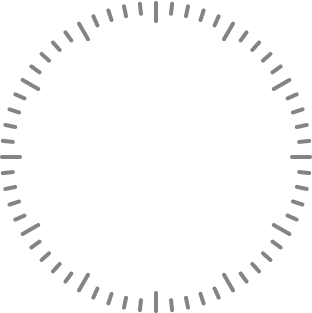
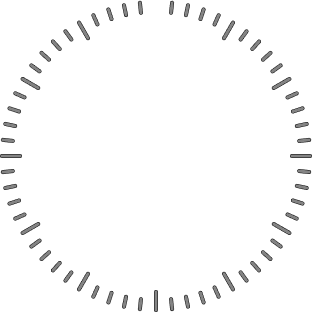
feat(concentric  data): add seconds

diff --git a/src/watchfaces/concentric-data/watchface/TimeWidget.js b/src/watchfaces/concentric-data/watchface/TimeWidget.js
@@ -1,10 +1,12 @@
 import { getMinuteAngle } from '../../../utils/getTimeAngles';
 import { CurrentTimeWidget } from './CurrentTimeWidget';
-import { MIN_ANGLE_TO_UPDATE_WHEEL, MINUTE_TEXTS_RADIUS } from './index.const';
+import { MINUTE_TEXTS_RADIUS } from './index.const';
 import { TimeWheelWidget } from './TimeWheelWidget';
 import {
+  MINUTE_AOD_IMAGE_PROPS,
   MINUTE_IMAGE_PROPS,
   MINUTE_TEXT_PROPS,
+  SECOND_AOD_IMAGE_PROPS,
   SECOND_IMAGE_PROPS,
 } from './TimeWidget.layout';
 
@@ -35,11 +37,10 @@ export class TimeWidget {
   constructor({ timeSensor }) {
     this._timeSensor = timeSensor;
 
-    this._prevMinuteAngle = Infinity;
-    this._prevCurrentHour = Infinity;
-    this._prevCurrentMinute = Infinity;
+    this._prevMinute = Infinity;
 
-    hmUI.createWidget(hmUI.widget.IMG, SECOND_IMAGE_PROPS);
+    hmUI.createWidget(hmUI.widget.TIME_POINTER, SECOND_IMAGE_PROPS);
+    hmUI.createWidget(hmUI.widget.IMG, SECOND_AOD_IMAGE_PROPS);
 
     this._timeWheelWidget = new TimeWheelWidget({
       imageProps: MINUTE_IMAGE_PROPS,
@@ -48,6 +49,8 @@ export class TimeWidget {
       getTextImageSrc: (index) =>
         MINUTE_TEXT_PROPS.src.replace('%s', TIME_TEXTS[index]),
     });
+
+    hmUI.createWidget(hmUI.widget.IMG, MINUTE_AOD_IMAGE_PROPS);
 
     this._currentTimeWidget = new CurrentTimeWidget();
 
@@ -58,39 +61,16 @@ export class TimeWidget {
    * @param {HmSensorInstance} timeSensor
    */
   _updateMinuteWheel(timeSensor) {
-    const { minute = 0, second = 0 } = timeSensor;
-    const angle = (90 + getMinuteAngle(minute, second)) % 360;
-    const shouldUpdate =
-      Math.abs(angle - this._prevMinuteAngle) >= MIN_ANGLE_TO_UPDATE_WHEEL &&
-      Math.abs(360 - angle + this._prevMinuteAngle) >=
-        MIN_ANGLE_TO_UPDATE_WHEEL;
+    const { minute = 0 } = timeSensor;
 
-    if (!shouldUpdate) {
+    if (this._prevMinute === minute) {
       return;
     }
 
-    this._prevMinuteAngle = angle;
+    this._prevMinute = minute;
 
+    const angle = (90 + getMinuteAngle(minute)) % 360;
     this._timeWheelWidget.update(angle);
-  }
-
-  /**
-   * @param {HmSensorInstance} timeSensor
-   */
-  _updateCurrentTime(timeSensor) {
-    const { hour = 0, minute = 0 } = timeSensor;
-
-    const shouldUpdate =
-      hour !== this._prevCurrentHour || minute !== this._prevCurrentMinute;
-
-    if (!shouldUpdate) {
-      return;
-    }
-
-    this._prevCurrentHour = hour;
-    this._prevCurrentMinute = minute;
-
-    this._currentTimeWidget.update(timeSensor);
   }
 
   _bindHandlers() {
@@ -98,11 +78,6 @@ export class TimeWidget {
 
     const update = () => {
       this._updateMinuteWheel(timeSensor);
-      this._updateCurrentTime(timeSensor);
-    };
-
-    const updateAod = () => {
-      this._updateCurrentTime(timeSensor);
     };
 
     hmUI.createWidget(hmUI.widget.WIDGET_DELEGATE, {
@@ -110,14 +85,10 @@ export class TimeWidget {
         if (hmSetting.getScreenType() == hmSetting.screen_type.WATCHFACE) {
           timeSensor.addEventListener?.(timeSensor.event.MINUTEEND, update);
           update();
-        } else if (hmSetting.getScreenType() == hmSetting.screen_type.AOD) {
-          timeSensor.addEventListener?.(timeSensor.event.MINUTEEND, updateAod);
-          updateAod();
         }
       },
       pause_call: () => {
         timeSensor.removeEventListener?.(timeSensor.event.MINUTEEND, update);
-        timeSensor.removeEventListener?.(timeSensor.event.MINUTEEND, updateAod);
       },
     });
   }

diff --git a/src/watchfaces/concentric-data/watchface/CurrentTimeWidget.js b/src/watchfaces/concentric-data/watchface/CurrentTimeWidget.js
@@ -1,45 +1,44 @@
-import { getTimeTexts } from '../../../adapters/getTimeTexts';
 import {
   CURRENT_HOUR_AOD_TEXT_PROPS,
   CURRENT_HOUR_TEXT_PROPS,
   CURRENT_MINUTE_AOD_TEXT_PROPS,
   CURRENT_MINUTE_TEXT_PROPS,
+  CURRENT_SECOND_TEXT_PROPS,
+  FRAME_AOD_IMAGE_PROPS,
   FRAME_IMAGE_PROPS,
 } from './CurrentTimeWidget.layout';
 
 export class CurrentTimeWidget {
   constructor() {
+    this._buildNormal();
+    this._buildAod();
+  }
+
+  _buildNormal() {
     hmUI.createWidget(hmUI.widget.IMG, FRAME_IMAGE_PROPS);
 
     this._currentHourText = hmUI.createWidget(
-      hmUI.widget.TEXT,
+      hmUI.widget.TEXT_FONT,
       CURRENT_HOUR_TEXT_PROPS,
     );
     this._currentMinuteText = hmUI.createWidget(
-      hmUI.widget.TEXT,
+      hmUI.widget.TEXT_FONT,
       CURRENT_MINUTE_TEXT_PROPS,
     );
 
+    hmUI.createWidget(hmUI.widget.TEXT_FONT, CURRENT_SECOND_TEXT_PROPS);
+  }
+
+  _buildAod() {
+    hmUI.createWidget(hmUI.widget.IMG, FRAME_AOD_IMAGE_PROPS);
+
     this._currentHourAodText = hmUI.createWidget(
-      hmUI.widget.TEXT,
+      hmUI.widget.TEXT_FONT,
       CURRENT_HOUR_AOD_TEXT_PROPS,
     );
     this._currentMinuteAodText = hmUI.createWidget(
-      hmUI.widget.TEXT,
+      hmUI.widget.TEXT_FONT,
       CURRENT_MINUTE_AOD_TEXT_PROPS,
     );
-  }
-
-  /**
-   * @param {HmSensorInstance} timeSensor
-   */
-  update(timeSensor) {
-    const { hourText, minuteText } = getTimeTexts(timeSensor);
-
-    this._currentHourText?.setProperty(hmUI.prop.TEXT, hourText);
-    this._currentMinuteText?.setProperty(hmUI.prop.TEXT, minuteText);
-
-    this._currentHourAodText?.setProperty(hmUI.prop.TEXT, hourText);
-    this._currentMinuteAodText?.setProperty(hmUI.prop.TEXT, minuteText);
   }
 }

diff --git a/src/watchfaces/concentric-data/watchface/CurrentTimeWidget.layout.js b/src/watchfaces/concentric-data/watchface/CurrentTimeWidget.layout.js
@@ -1,3 +1,4 @@
+import { getIs12HourFormat } from '../../../adapters/getIs12HourFormat';
 import {
   COLORS,
   CURRENT_HOUR,
@@ -13,6 +14,13 @@ export const FRAME_IMAGE_PROPS = {
   show_level: hmUI.show_level.ONLY_NORMAL,
 };
 
+export const FRAME_AOD_IMAGE_PROPS = {
+  x: px(297),
+  y: px(198),
+  src: 'time/frame_aod.png',
+  show_level: hmUI.show_level.ONAL_AOD,
+};
+
 export const CURRENT_HOUR_TEXT_PROPS = {
   x: SCREEN.centerX - CURRENT_HOUR.width / 2,
   y: SCREEN.centerY - CURRENT_HOUR.height / 2,
@@ -23,7 +31,8 @@ export const CURRENT_HOUR_TEXT_PROPS = {
   align_h: hmUI.align.CENTER_H,
   align_v: hmUI.align.CENTER_V,
   font: FONTS.primary,
-  text: '00',
+  type: hmUI.data_type.HOUR,
+  padding: getIs12HourFormat() ? false : true,
   show_level: hmUI.show_level.ONLY_NORMAL,
 };
 
@@ -44,7 +53,8 @@ export const CURRENT_MINUTE_TEXT_PROPS = {
   align_h: hmUI.align.CENTER_H,
   align_v: hmUI.align.CENTER_V,
   font: FONTS.primary,
-  text: '00',
+  type: hmUI.data_type.MINUTE,
+  padding: true,
   show_level: hmUI.show_level.ONLY_NORMAL,
 };
 
@@ -53,4 +63,19 @@ export const CURRENT_MINUTE_AOD_TEXT_PROPS = {
   font: FONTS.aod,
   color: COLORS.aod,
   show_level: hmUI.show_level.ONAL_AOD,
+};
+
+export const CURRENT_SECOND_TEXT_PROPS = {
+  x: px(398),
+  y: px(210),
+  w: px(60),
+  h: px(60),
+  align_h: hmUI.align.CENTER_H,
+  align_v: hmUI.align.CENTER_V,
+  text_size: px(48),
+  color: COLORS.primary,
+  type: hmUI.data_type.SECOND,
+  padding: true,
+  font: FONTS.aod,
+  show_level: hmUI.show_level.ONLY_NORMAL,
 };

diff --git a/src/watchfaces/concentric-data/watchface/TimeWidget.layout.js b/src/watchfaces/concentric-data/watchface/TimeWidget.layout.js
@@ -1,17 +1,22 @@
-import { MINUTE, SCREEN, SECOND } from '../utils/constants';
+import { MINUTE, SCREEN } from '../utils/constants';
 
 export const SECOND_IMAGE_PROPS = {
+  second_centerX: px(240),
+  second_centerY: px(240),
+  second_posX: px(240),
+  second_posY: px(240),
+  second_path: 'time/second.png',
+
+  fresh_frequency: 10,
+
+  show_level: hmUI.show_level.ONLY_NORMAL,
+};
+
+export const SECOND_AOD_IMAGE_PROPS = {
   x: 0,
   y: 0,
-  pos_x: SCREEN.centerX - SECOND.image.size / 2,
-  pos_y: SCREEN.centerY - SECOND.image.size / 2,
-  w: SCREEN.width,
-  h: SCREEN.height,
-  src: SECOND.image.src,
-  center_x: SCREEN.centerX,
-  center_y: SCREEN.centerX,
-  angle: 0,
-  show_level: hmUI.show_level.ONLY_NORMAL,
+  src: 'time/second_aod.png',
+  show_level: hmUI.show_level.ONAL_AOD,
 };
 
 export const MINUTE_IMAGE_PROPS = {
@@ -26,6 +31,13 @@ export const MINUTE_IMAGE_PROPS = {
   center_y: SCREEN.centerX,
   angle: 0,
   show_level: hmUI.show_level.ONLY_NORMAL,
+};
+
+export const MINUTE_AOD_IMAGE_PROPS = {
+  x: px(84),
+  y: px(84),
+  src: 'time/minute_aod.png',
+  show_level: hmUI.show_level.ONAL_AOD,
 };
 
 export const MINUTE_TEXT_PROPS = {

diff --git a/src/watchfaces/concentric-data/watchface/TimeWheelWidget.js b/src/watchfaces/concentric-data/watchface/TimeWheelWidget.js
@@ -15,13 +15,15 @@ export class TimeWheelWidget {
   constructor({ imageProps, textProps, textsRadius, getTextImageSrc }) {
     this._baseTextWidgetProps = textProps;
     this._textsRadius = textsRadius;
-    this._getTextImageSrc = getTextImageSrc;
 
     this._imageWidget = hmUI.createWidget(hmUI.widget.IMG, imageProps);
 
-    this._textWidgets = new Array(12)
-      .fill(null)
-      .map(() => hmUI.createWidget(hmUI.widget.IMG, textProps));
+    this._textWidgets = new Array(12).fill(null).map((_, i) =>
+      hmUI.createWidget(hmUI.widget.IMG, {
+        ...textProps,
+        src: getTextImageSrc(i),
+      }),
+    );
   }
 
   /**
@@ -42,12 +44,8 @@ export class TimeWheelWidget {
         rotationCenterY: px(240),
       });
 
-      textWidget.setProperty(hmUI.prop.MORE, {
-        ...this._baseTextWidgetProps,
-        x,
-        y,
-        src: this._getTextImageSrc(i),
-      });
+      textWidget.setProperty(hmUI.prop.X, x);
+      textWidget.setProperty(hmUI.prop.Y, y);
     });
   }
 }

diff --git a/src/watchfaces/concentric-data/watchface/index.js b/src/watchfaces/concentric-data/watchface/index.js
@@ -5,7 +5,6 @@ import { getClosestSunriseSunsetTime } from '../utils/getClosestSunriseSunsetTim
 import { getSleepTimeString } from '../utils/getSleepTime';
 import { getTimeString } from '../utils/getTimeString';
 import {
-  BACKGROUND_IMAGE_AOD_PROPS,
   BATTERY_BACKGROUND_ARC_PROPS,
   BATTERY_CIRCLE_TEXT_PROPS,
   BATTERY_CURRENT_ARC_PROPS,
@@ -33,7 +32,6 @@ WatchFace({
 
     this._timeSensor = hmSensor.createSensor(hmSensor.id.TIME);
 
-    this.buildBackgroundAod();
     this.buildTime();
     this.buildDate();
     this.buildBattery();
@@ -45,10 +43,6 @@ WatchFace({
 
   onDestroy() {
     console.log('watchface destroying');
-  },
-
-  buildBackgroundAod() {
-    hmUI.createWidget(hmUI.widget.IMG, BACKGROUND_IMAGE_AOD_PROPS);
   },
 
   buildTime() {

diff --git a/src/types/api_level_1/hmUI.d.ts b/src/types/api_level_1/hmUI.d.ts
@@ -165,6 +165,10 @@ declare namespace hmUI {
     readonly PAI_WEEKLY: number;
     /** Readiness */
     readonly READINESS: number;
+    /** Current hour value (for TEXT_FONT) */
+    readonly HOUR: number;
+    /** Current minute value (for TEXT_FONT) */
+    readonly MINUTE: number;
     /** Current second value (for TEXT_FONT) */
     readonly SECOND: number;
     /** Stand count */

diff --git a/src/watchfaces/concentric-data/watchface/index.r.layout.js b/src/watchfaces/concentric-data/watchface/index.r.layout.js
@@ -1,12 +1,5 @@
 import { COLORS, DATA, DATE, FONTS, SCREEN } from '../utils/constants';
 
-export const BACKGROUND_IMAGE_AOD_PROPS = {
-  x: 0,
-  y: 0,
-  src: 'aod/background.png',
-  show_level: hmUI.show_level.ONAL_AOD,
-};
-
 export const DATE_DAY_TEXT_PROPS = {
   x: SCREEN.centerX - DATA.radius - DATE.width / 2,
   y: SCREEN.centerY,

diff --git a/src/watchfaces/concentric-data/utils/constants.js b/src/watchfaces/concentric-data/utils/constants.js
@@ -60,7 +60,7 @@ export const MINUTE = {
 };
 
 export const CURRENT_HOUR = {
-  width: px(110),
+  width: px(120),
   height: px(110),
   textSize: hasCustomFontSupport ? px(110) : px(100),
   color: COLORS.primary,

diff --git a/src/watchfaces/concentric-data/watchface/index.const.js b/src/watchfaces/concentric-data/watchface/index.const.js
@@ -1,3 +1,1 @@
-export const MIN_ANGLE_TO_UPDATE_WHEEL = 0.7;
-
 export const MINUTE_TEXTS_RADIUS = px(110);
